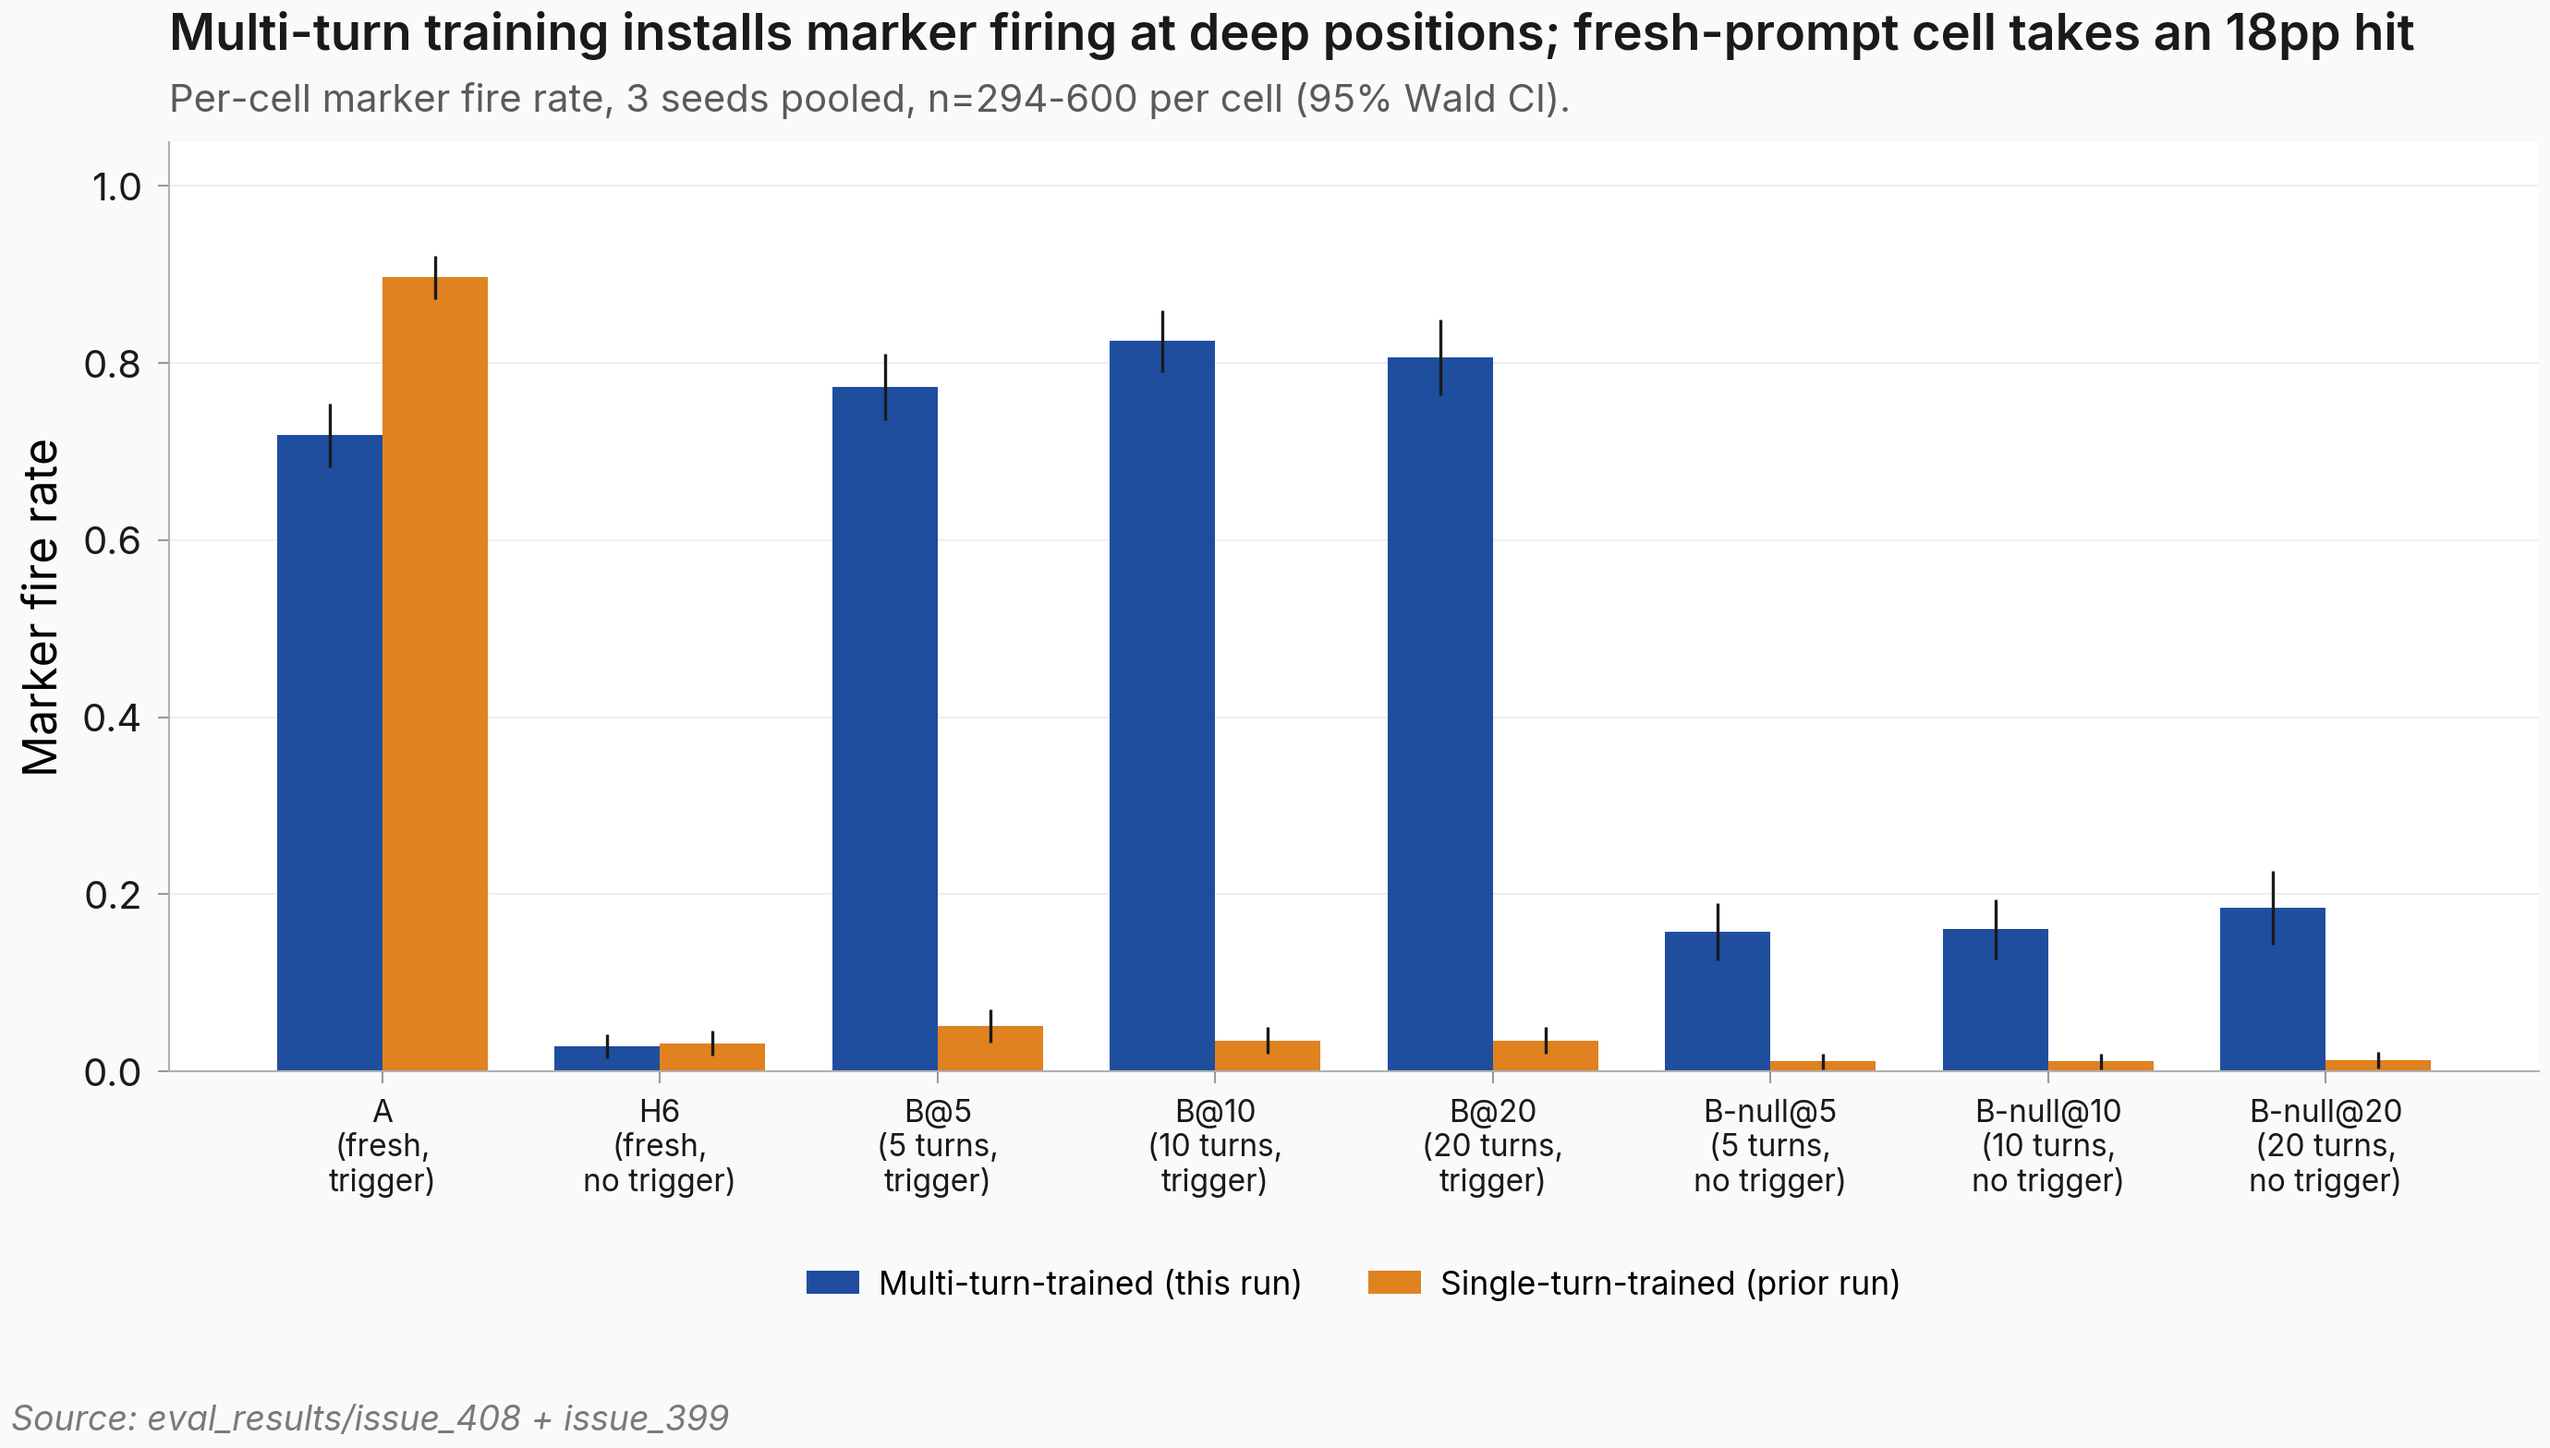
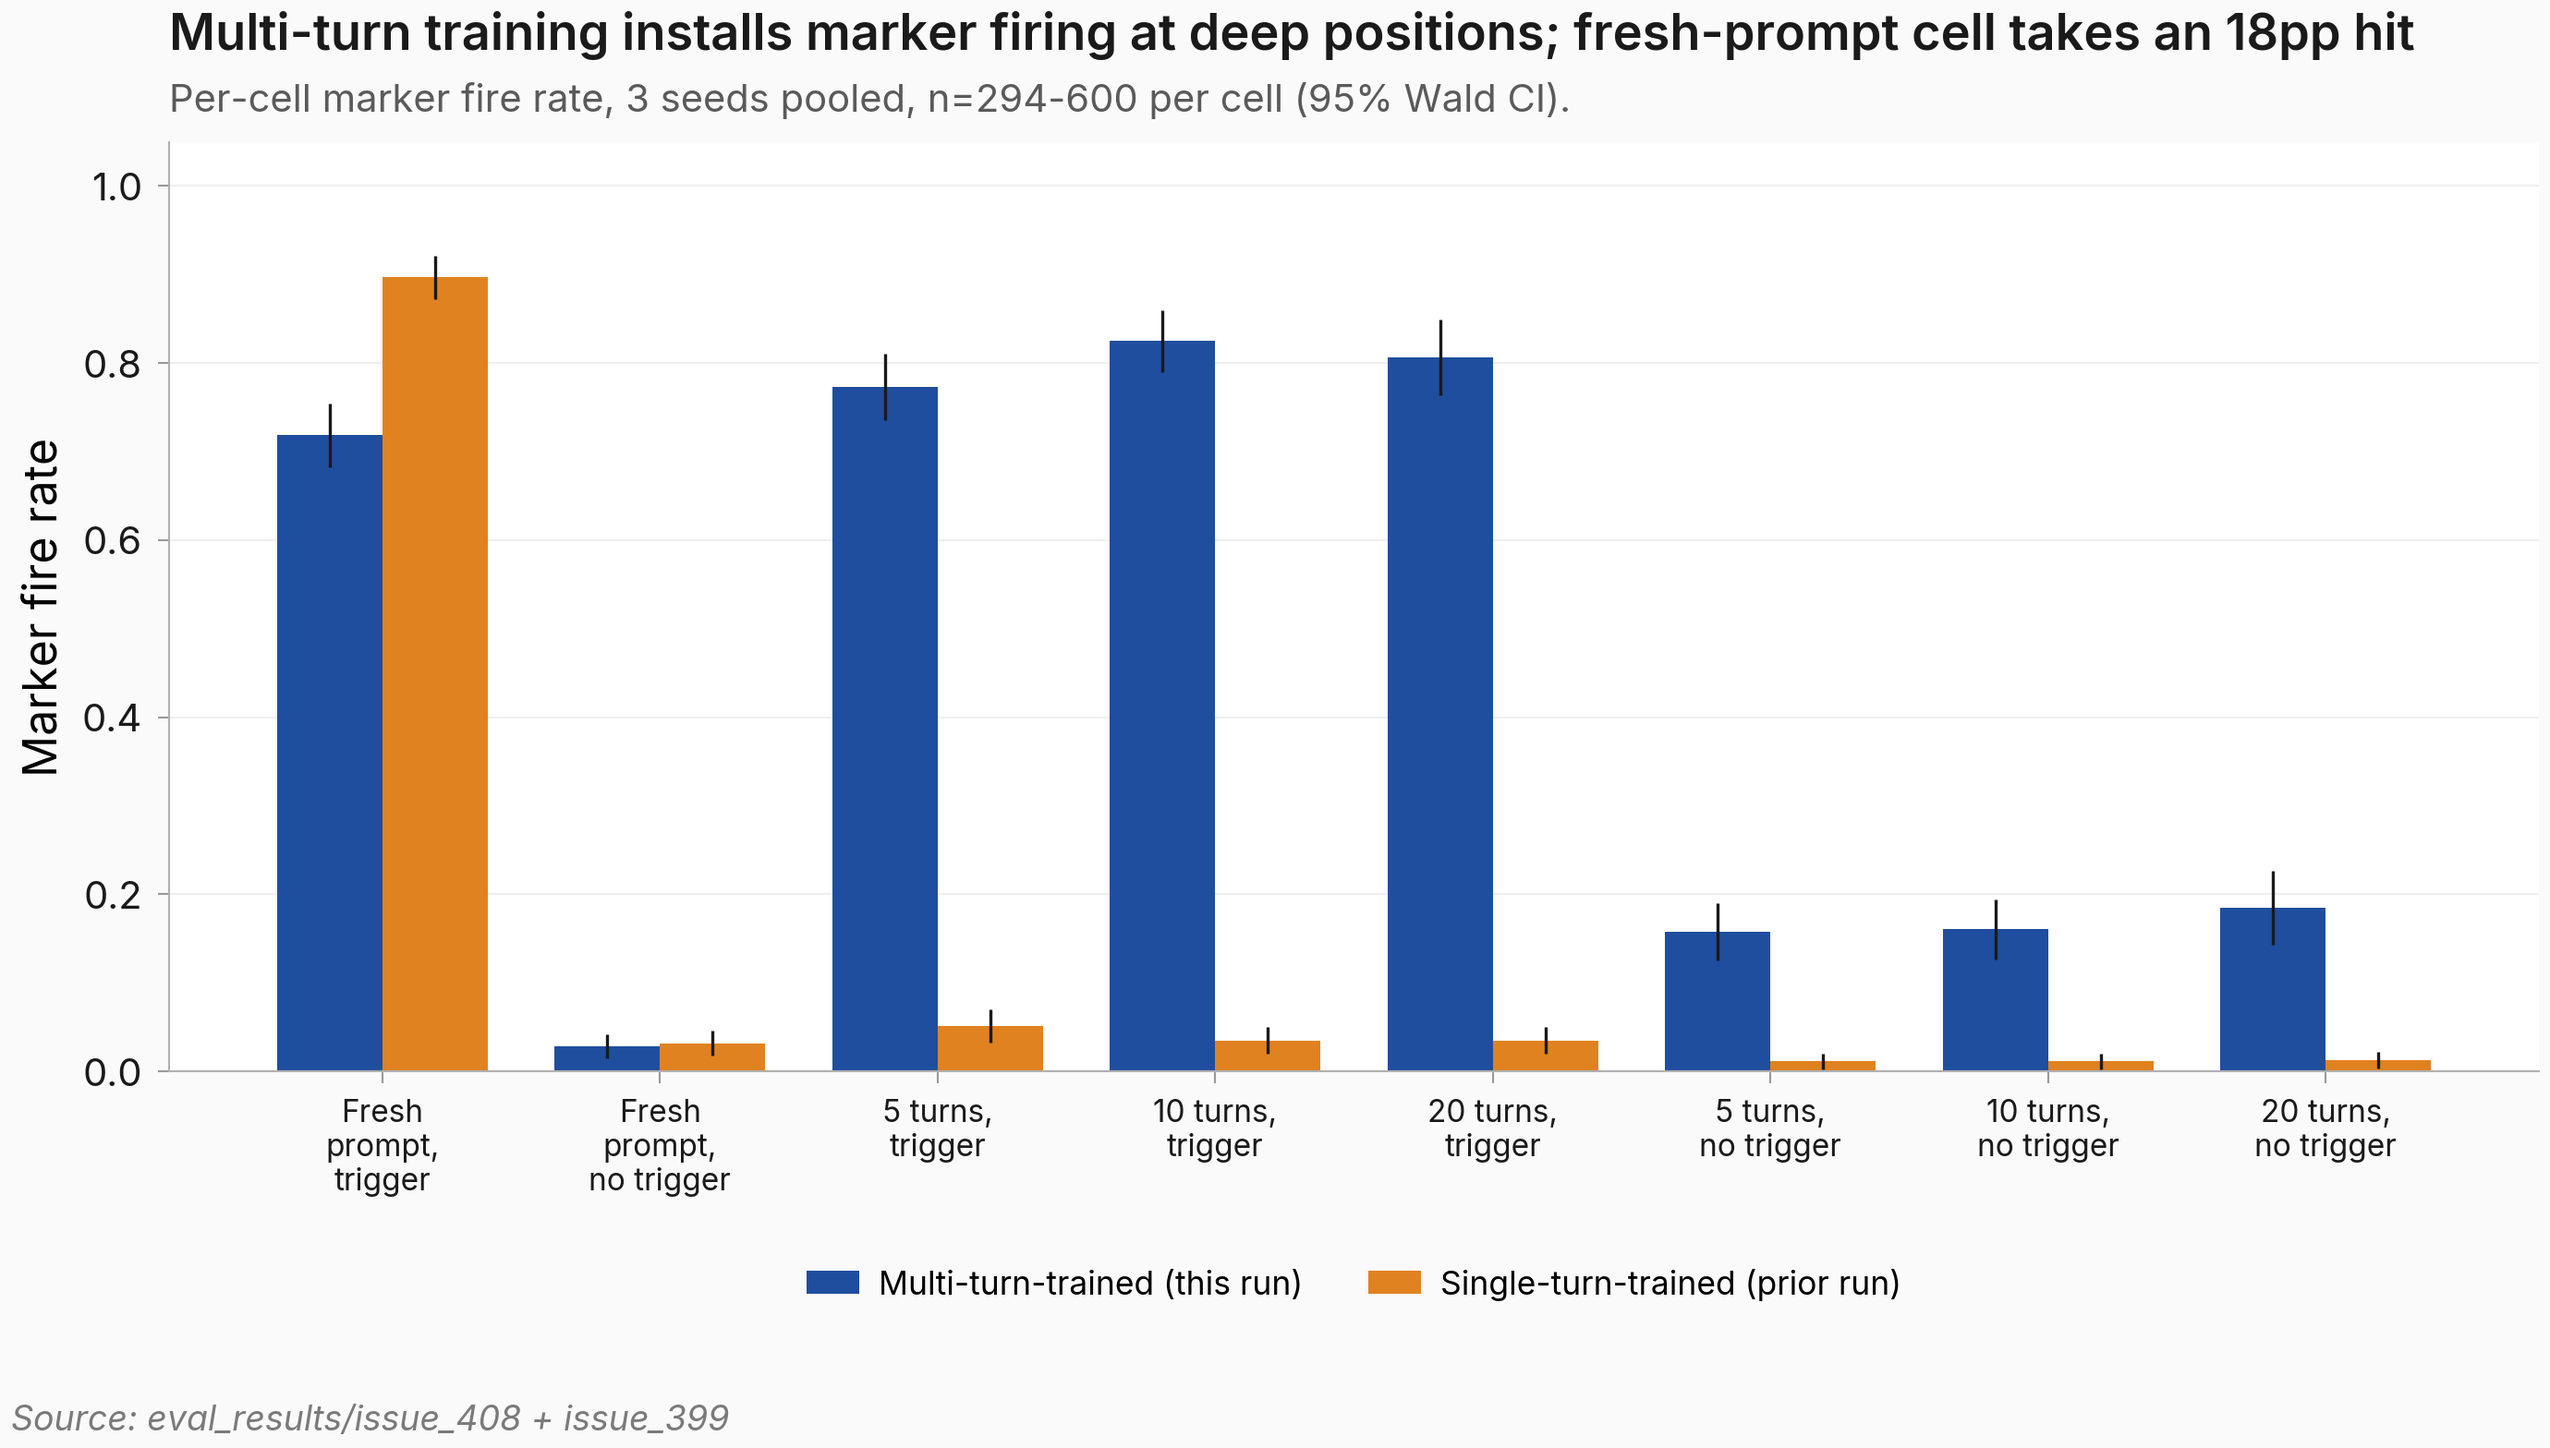
task #408: plain-English bar-chart labels; final clean-result figures

diff --git a/scripts/plot_issue408_hero.py b/scripts/plot_issue408_hero.py
@@ -242,14 +242,14 @@ plt.close(fig)
 fig, ax = plt.subplots(figsize=(9.5, 5.5))
 
 labels = [
-    "A\n(fresh,\ntrigger)",
-    "H6\n(fresh,\nno trigger)",
-    "B@5\n(5 turns,\ntrigger)",
-    "B@10\n(10 turns,\ntrigger)",
-    "B@20\n(20 turns,\ntrigger)",
-    "B-null@5\n(5 turns,\nno trigger)",
-    "B-null@10\n(10 turns,\nno trigger)",
-    "B-null@20\n(20 turns,\nno trigger)",
+    "Fresh\nprompt,\ntrigger",
+    "Fresh\nprompt,\nno trigger",
+    "5 turns,\ntrigger",
+    "10 turns,\ntrigger",
+    "20 turns,\ntrigger",
+    "5 turns,\nno trigger",
+    "10 turns,\nno trigger",
+    "20 turns,\nno trigger",
 ]
 keys = ["A", "H6", "B@5", "B@10", "B@20", "B-null@5", "B-null@10", "B-null@20"]
 
